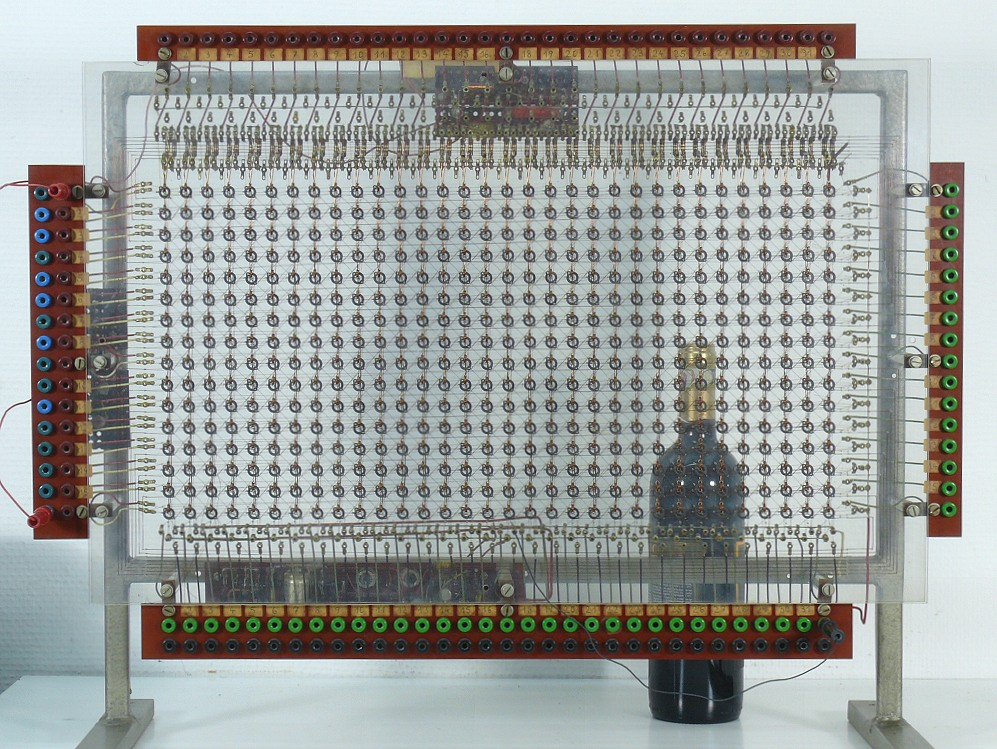
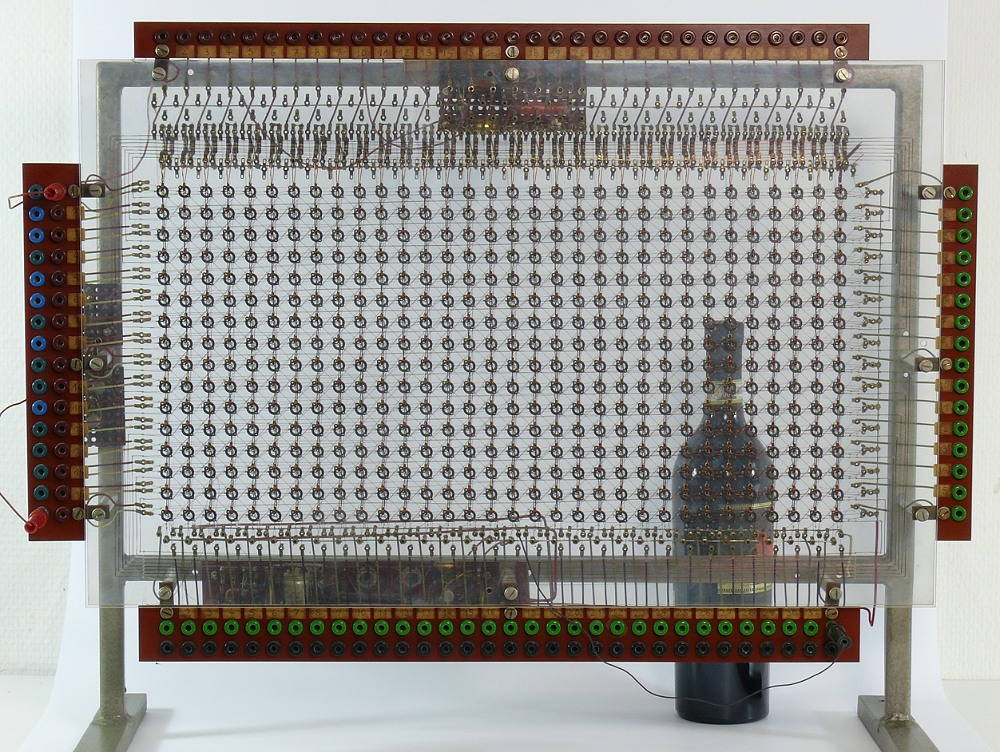
Demo-Kernspeicher Bild erneuert
git-svn-id: https://www.technikum29.de/svn/technikum29-www@701 388e7c26-a98e-49f6-8d48-46b9a15b27c2

diff --git a/de/rechnertechnik/speichermedien.php b/de/rechnertechnik/speichermedien.php
@@ -73,7 +73,7 @@
 
 <div class="box left clear-after">
 <a class="popup" href="/shared/photos/rechnertechnik/speichermedien/demo-kernspeicher.jpg">
-	<img src="/shared/photos/rechnertechnik/speichermedien/demo-kernspeicher.jpg" width="428" height="321" /> </a>
+	<img src="/shared/photos/rechnertechnik/speichermedien/demo-kernspeicher.jpg" width="428" height="322" /> </a>
 	
 	<p class="bildtext"><b>Kernspeicher-Demonstrationsmodell, Transfluxor</b><br>(Zum Vergrößern Bild anklicken!)</p>
 	

diff --git a/en/computer/storage-media.php b/en/computer/storage-media.php
@@ -74,7 +74,7 @@
 	
 	<div class="box left clear-after">
 <a class="popup" href="/shared/photos/rechnertechnik/speichermedien/demo-kernspeicher.jpg">
-	<img src="/shared/photos/rechnertechnik/speichermedien/demo-kernspeicher.jpg" width="428" height="321" /> </a>
+	<img src="/shared/photos/rechnertechnik/speichermedien/demo-kernspeicher.jpg" width="428" height="322" /> </a>
 	
 	<p class="bildtext"><b>Core memory demonstration model, Transfluxor</b><br>(you can enlarge the picture!)</p>
 	
